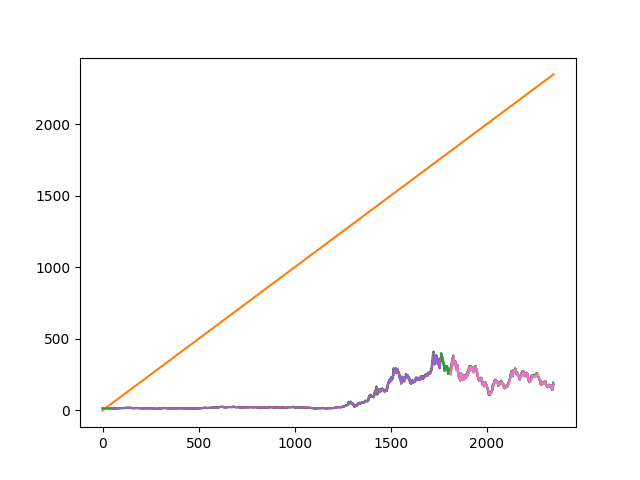
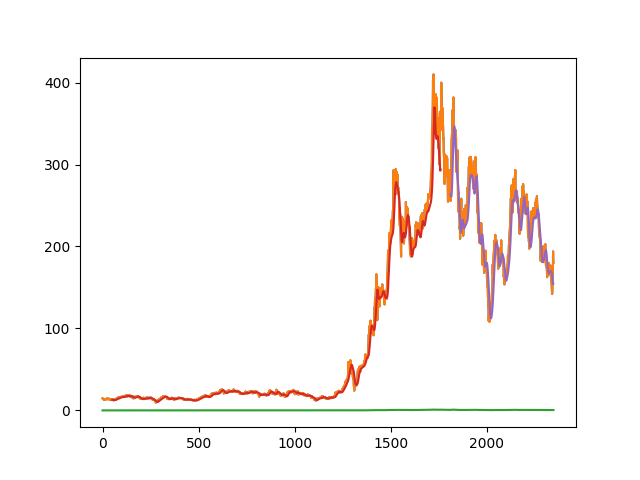
graphs related changed made

diff --git a/src/components/model_trainer.py b/src/components/model_trainer.py
@@ -22,11 +22,11 @@ class ModelTrainer:
         self.file_op = FileOperations()
 
 
-    def initiate_model_training(self, X_train, y_train, X_test, y_test):
+    def initiate_model_training(self, df, X_train, y_train, X_test, y_test):
         try:
             model = self.create_model()
 
-            model.fit(X_train,y_train,validation_data=(X_test,y_test),epochs=100,batch_size=64,verbose=1)
+            model.fit(X_train,y_train,validation_data=(X_test,y_test),epochs=10,batch_size=64,verbose=1)
 
             self.file_op.save_model(model, 'lstm.sav')
 
@@ -50,7 +50,7 @@ class ModelTrainer:
             test_rmse = math.sqrt(mean_squared_error(y_test,test_predict))
             logging.info(f'traing rmse: {test_rmse}')
 
-            self.plot_graphs(train_predict, test_predict)
+            self.plot_graphs(df, train_predict, test_predict)
             
         except Exception as e:
             logging.exception(e)
@@ -71,11 +71,11 @@ class ModelTrainer:
             logging.exception(e)
             raise e
         
-    def plot_graphs(self,train_predict, test_predict):
+    def plot_graphs(self,df, train_predict, test_predict):
         
         scaler = self.file_op.load_model('scaler.sav')
 
-        df = pd.read_csv('training_files/clean_data.csv')
+        # df = pd.read_csv('training_files/clean_data.csv')
         ### Plotting 
         # shift train predictions for plotting
         look_back=50
@@ -87,7 +87,7 @@ class ModelTrainer:
         testPredictPlot[:, :] = np.nan
         testPredictPlot[len(train_predict)+(look_back*2)+1:len(df)-1, :] = test_predict
         # plot baseline and predictions
-        # plt.plot(scaler.inverse_transform(df))
+        plt.plot(scaler.inverse_transform(df))
         plt.plot(df)
         plt.plot(trainPredictPlot)
         plt.plot(testPredictPlot)

diff --git a/main.py b/main.py
@@ -24,7 +24,7 @@ try:
     logging.info(f">>>>>> stage {STAGE_NAME} started <<<<<<")
     ## Create pipeline object and call it from here
     object = DataPreprocessing()
-    X_train, y_train, X_test, ytest = object.initiate_data_preprocessing()
+    df, X_train, y_train, X_test, y_test = object.initiate_data_preprocessing()
     logging.info(f">>>>>> stage {STAGE_NAME} completed <<<<<<\n\nx==========x")
 except Exception as e:
     logging.exception(e)
@@ -36,7 +36,7 @@ try:
     logging.info(f">>>>>> stage {STAGE_NAME} started <<<<<<")
     ## Create pipeline object and call it from here
     object = ModelTrainer()
-    object.initiate_model_training(X_train, y_train, X_test, ytest)
+    object.initiate_model_training(df, X_train, y_train, X_test, y_test)
     logging.info(f">>>>>> stage {STAGE_NAME} completed <<<<<<\n\nx==========x")
 except Exception as e:
     logging.exception(e)

diff --git a/src/components/data_preprocessing.py b/src/components/data_preprocessing.py
@@ -40,7 +40,7 @@ class DataPreprocessing:
             # reshape into X=t,t+1,t+2,t+3 and Y=t+4
             time_step = 50
             X_train, y_train = self.create_dataset(train_data, time_step)
-            X_test, ytest = self.create_dataset(test_data, time_step)
+            X_test, y_test = self.create_dataset(test_data, time_step)
 
             # reshape input to be [samples, time steps, features] which is required for LSTM
             X_train =X_train.reshape(X_train.shape[0],X_train.shape[1] , 1)
@@ -48,7 +48,7 @@ class DataPreprocessing:
 
             # df.to_csv('training_files/clean_data.csv', index=False)
 
-            return X_train, y_train, X_test, ytest
+            return df, X_train, y_train, X_test, y_test
 
 
         except Exception as e:
